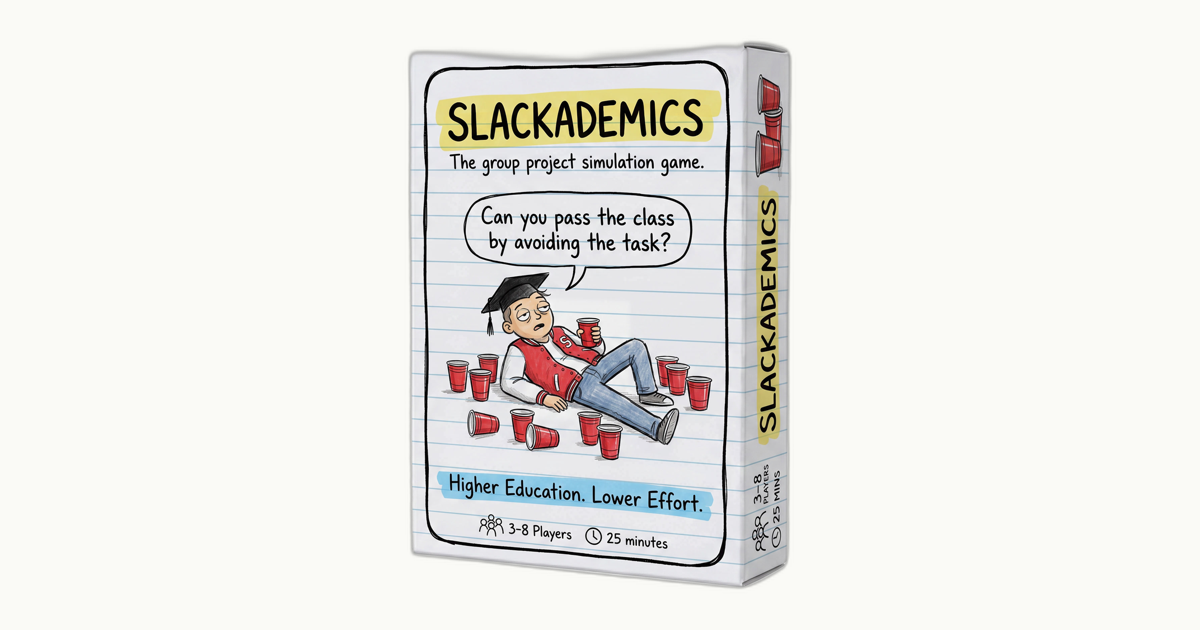
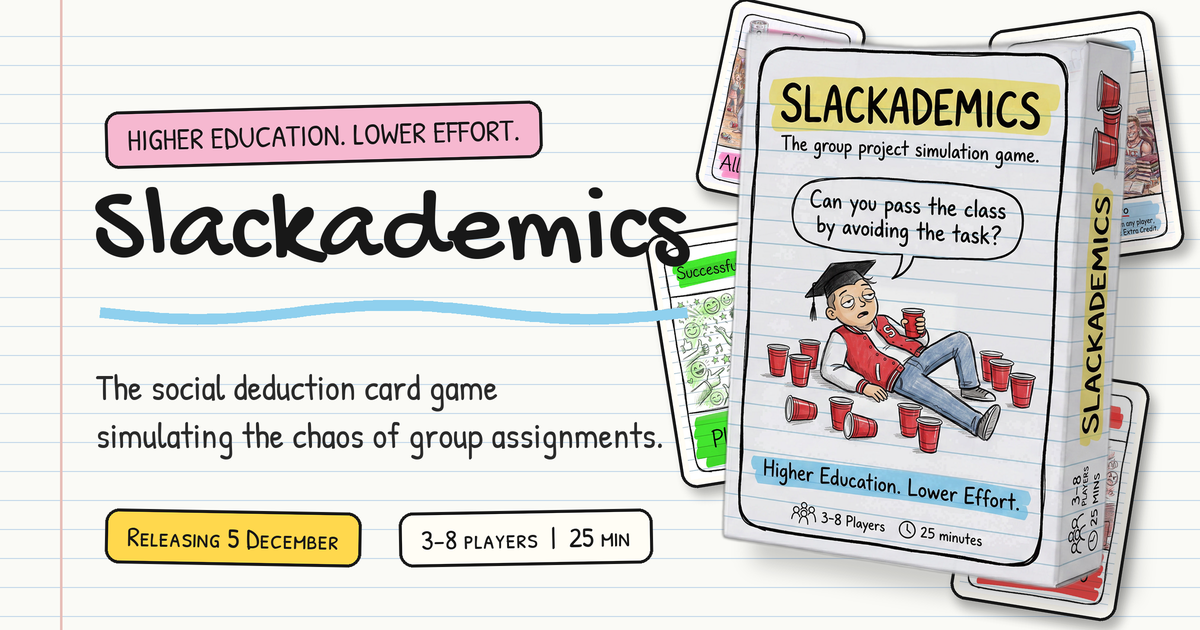
Add custom 404 page and designed share thumbnail

diff --git a/404.html b/404.html
@@ -1,0 +1,108 @@
+<!DOCTYPE html>
+<html>
+<head>
+<meta charset="utf-8">
+<meta name="viewport" content="width=device-width, initial-scale=1">
+<title>Page not found | Slackademics</title>
+<meta name="robots" content="noindex">
+<meta name="description" content="This page skipped class. Head back to Slackademics.">
+<meta name="theme-color" content="#fafaf6">
+<link rel="icon" href="/assets/favicon.svg" type="image/svg+xml">
+<meta property="og:type" content="website">
+<meta property="og:site_name" content="Slackademics">
+<meta property="og:title" content="Page not found | Slackademics">
+<meta property="og:description" content="This page skipped class. Head back to Slackademics.">
+<meta property="og:image" content="https://www.slackademics.store/assets/og-image.png">
+<meta name="twitter:card" content="summary_large_image">
+<script src="/support.js"></script>
+</head>
+<body>
+<x-dc>
+<helmet>
+<link rel="preconnect" href="https://fonts.googleapis.com">
+<link rel="preconnect" href="https://fonts.gstatic.com" crossorigin>
+<link href="https://fonts.googleapis.com/css2?family=Gochi+Hand&family=Patrick+Hand&family=Patrick+Hand+SC&display=swap" rel="stylesheet">
+<link rel="stylesheet" href="/mobile.css">
+<style>
+  *{box-sizing:border-box;}
+  html{scroll-behavior:smooth;}
+  body{margin:0;background:#fafaf6;font-family:'Patrick Hand',system-ui,sans-serif;color:#181818;-webkit-font-smoothing:antialiased;}
+  img{display:block;max-width:100%;}
+  ::selection{background:#9ad6f0;}
+  .dc-card{background:#fffdf5;border:3px solid #181818;border-radius:20px 13px 22px 15px/15px 22px 13px 20px;box-shadow:6px 7px 0 rgba(24,24,24,.14);padding:30px 34px;margin:0 0 26px;}
+  .dc-card p{font-size:19px;line-height:1.6;margin:0;color:#242424;}
+  .dc-head{display:flex;align-items:center;gap:16px;margin-bottom:14px;}
+  .dc-num{flex:0 0 auto;display:inline-flex;width:52px;height:58px;align-items:center;justify-content:center;background:var(--dc-accent,#8fd0ee);border:2.5px solid #181818;border-radius:7px;font-family:'Gochi Hand',cursive;font-size:34px;box-shadow:inset 0 0 0 2px #fffdf5,inset 0 0 0 4px #181818;}
+  .dc-card h2{font-family:'Patrick Hand';font-size:26px;margin:0;line-height:1.15;}
+</style>
+</helmet>
+<div style="position:relative;min-height:100vh;background-image:repeating-linear-gradient(transparent 0 28px, #c4d8ea 28px 29px);background-position:0 8px;overflow:hidden;">
+
+  <div class="mline" style="position:absolute;top:0;bottom:0;left:max(18px,calc(50% - 480px));width:2px;background:rgba(214,138,128,0.45);pointer-events:none;"></div>
+
+  <!-- ===== NAV ===== -->
+  <nav class="nv" style="position:sticky;top:0;z-index:50;backdrop-filter:blur(2px);background:rgba(250,250,246,0.82);border-bottom:2.5px solid #181818;">
+    <div class="nv-in" style="max-width:1180px;margin:0 auto;padding:12px 26px;display:flex;align-items:center;justify-content:space-between;gap:18px;">
+      <a class="nv-logo" href="/index.html#top" style="display:flex;align-items:center;gap:11px;text-decoration:none;">
+        <span style="display:inline-flex;width:38px;height:38px;align-items:center;justify-content:center;background:#8fd0ee;border:2.5px solid #181818;border-radius:13px 7px 14px 8px/8px 14px 7px 13px;transform:rotate(-5deg);font-size:24px;">✎</span>
+        <span style="font-family:'Gochi Hand',cursive;font-size:30px;letter-spacing:.5px;color:#181818;">Slackademics</span>
+      </a>
+      <div class="nv-links" style="display:flex;align-items:center;gap:22px;flex-wrap:wrap;">
+        <a href="/index.html#play" style="font-size:21px;text-decoration:none;color:#181818;">How to Play</a>
+        <a href="/deck.html" style="font-size:21px;text-decoration:none;color:#181818;">The Cards</a>
+        <a href="/characters.html" style="font-size:21px;text-decoration:none;color:#181818;">Characters</a>
+        <a href="/rulebook.html" style="font-size:21px;text-decoration:none;color:#181818;">Rulebook</a>
+        <a href="/design.html" style="font-size:21px;text-decoration:none;color:#181818;">Design</a>
+        <a href="/campaign.html" style="font-size:21px;text-decoration:none;color:#181818;">Campaign</a>
+        <a class="nv-cta" href="/index.html#preorder" style="font-family:\'Patrick Hand\';font-size:20px;text-decoration:none;color:#181818;padding:.28em 1em;background:#8fd0ee;border:2.5px solid #181818;border-radius:14px 9px 15px 10px/10px 15px 9px 14px;box-shadow:2.5px 3px 0 #181818;transform:rotate(-1.2deg);white-space:nowrap;" style-hover="transform:rotate(-1.2deg) translateY(-2px);box-shadow:3px 5px 0 #181818;">ORDER NOW</a>
+      </div>
+    </div>
+  </nav>
+
+  <!-- ===== NOT FOUND ===== -->
+  <main style="max-width:820px;margin:0 auto;padding:64px 26px 90px;text-align:center;">
+    <span style="display:inline-block;font-family:'Patrick Hand SC';font-size:19px;letter-spacing:1.6px;text-transform:uppercase;background:#f6b8d0;padding:.2em .8em;border-radius:10px 16px 9px 15px/15px 9px 16px 10px;transform:rotate(-1deg);">Error 404</span>
+    <h1 style="font-family:'Gochi Hand',cursive;font-size:clamp(48px,9vw,96px);margin:18px 0 6px;line-height:1;">Page not found</h1>
+    <p style="font-size:26px;line-height:1.4;margin:10px auto 0;max-width:30ch;color:#2a2a2a;">This page skipped class and did not hand anything in.</p>
+
+    <div style="display:flex;justify-content:center;margin:40px 0 34px;">
+      <img src="/assets/deck/status-individual-fail.jpg" alt="An Individual Fail card" style="width:200px;border:3px solid #181818;border-radius:14px;box-shadow:7px 9px 0 rgba(24,24,24,.18);transform:rotate(-5deg);">
+    </div>
+
+    <p style="font-size:22px;margin:0 0 26px;color:#5a4f3a;">Either the link is wrong or the page has moved. Try one of these instead.</p>
+    <div style="display:flex;flex-wrap:wrap;gap:16px;justify-content:center;">
+      <a href="/index.html" style="display:inline-flex;align-items:center;font-family:'Patrick Hand';font-size:24px;text-decoration:none;color:#fffdf5;padding:.5em 1.15em;background:#d1483b;border:3px solid #181818;border-radius:17px 11px 18px 12px/12px 18px 11px 17px;box-shadow:4px 5px 0 #181818;transform:rotate(-1deg);" style-hover="transform:rotate(-1deg) translateY(-3px);box-shadow:4px 8px 0 #181818;">Back to the home page</a>
+      <a href="/deck.html" style="display:inline-flex;align-items:center;font-family:'Patrick Hand';font-size:24px;text-decoration:none;color:#181818;padding:.5em 1.1em;background:#fffdf5;border:3px solid #181818;border-radius:12px 18px 11px 17px/17px 11px 18px 12px;box-shadow:4px 5px 0 rgba(24,24,24,.25);transform:rotate(0.8deg);" style-hover="transform:rotate(0.8deg) translateY(-3px);box-shadow:4px 8px 0 rgba(24,24,24,.3);">See the cards</a>
+      <a href="/rulebook.html" style="display:inline-flex;align-items:center;font-family:'Patrick Hand';font-size:24px;text-decoration:none;color:#181818;padding:.5em 1.1em;background:#ffd84d;border:3px solid #181818;border-radius:14px 9px 16px 11px/11px 16px 9px 14px;box-shadow:4px 5px 0 rgba(24,24,24,.25);transform:rotate(-0.8deg);" style-hover="transform:rotate(-0.8deg) translateY(-3px);box-shadow:4px 8px 0 rgba(24,24,24,.3);">Read the rulebook</a>
+    </div>
+  </main>
+
+  <!-- ===== FOOTER ===== -->
+  <footer style="border-top:2.5px solid #181818;background:rgba(250,250,246,0.7);margin-top:30px;">
+    <div style="max-width:1180px;margin:0 auto;padding:34px 26px;display:flex;flex-wrap:wrap;gap:18px;align-items:center;justify-content:space-between;">
+      <div style="display:flex;align-items:center;gap:11px;">
+        <span style="display:inline-flex;width:36px;height:36px;align-items:center;justify-content:center;background:#8fd0ee;border:2.5px solid #181818;border-radius:13px 7px 14px 8px/8px 14px 7px 13px;transform:rotate(-5deg);font-size:22px;">✎</span>
+        <span style="font-family:'Gochi Hand',cursive;font-size:26px;">Slackademics</span>
+      </div>
+      <p style="font-size:19px;margin:0;color:#5a4f3a;">A lo-fi card game about higher education · © 2026</p>
+      <div style="display:flex;gap:18px;font-size:20px;flex-wrap:wrap;">
+        <a href="/index.html#preorder" style="text-decoration:none;color:#181818;border-bottom:2px solid #8fd0ee;">Buy Now</a>
+        <a href="/rulebook.html" style="text-decoration:none;color:#181818;border-bottom:2px solid #f6b8d0;">Rulebook</a>
+        <a href="/characters.html" style="text-decoration:none;color:#181818;border-bottom:2px solid #ffd84d;">Characters</a>
+        <a href="/deck.html" style="text-decoration:none;color:#181818;border-bottom:2px solid #bfe3b0;">The Deck</a>
+        <a href="/design.html" style="text-decoration:none;color:#181818;border-bottom:2px solid #d8b8ec;">Design</a>
+        <a href="/campaign.html" style="text-decoration:none;color:#181818;border-bottom:2px solid #ffd84d;">Campaign</a>
+      </div>
+    </div>
+  </footer>
+</div>
+</x-dc>
+<script type="text/x-dc" data-dc-script data-props="{&quot;$preview&quot;:{&quot;width&quot;:1000,&quot;height&quot;:1600}}">
+class Component extends DCLogic {
+  renderVals() {
+    return {};
+  }
+}
+</script>
+</body>
+</html>
